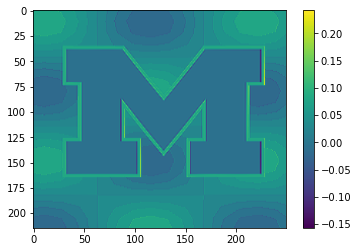
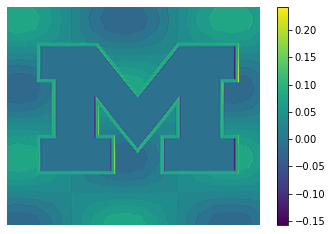
Computes stats of relative error
computes avg, max, min etc

Changed region(s): [[0.0, 0.0299, 0.994, 0.9872], [0.2711, 0.1795, 0.5723, 0.4188]]

diff --git a/compareImages.py b/compareImages.py
@@ -9,25 +9,11 @@ from PIL import Image
 import numpy as np
 from numpy import asarray
 from matplotlib import pyplot as plt
+import pandas as pd
 import itk
 
 fixed_image = itk.imread('transformingTestImage/newTestImage.png', itk.F)
 result_image = itk.imread('output/result_image_11_7.nii', itk.F)
-# transformedImage = Image.open('output/finalMichLogoUsingBSpline.png')
-# ogImage = Image.open('output/newTransformedImage.png')
-
-# #crop images
-# width, height = ogImage.size
-# left = (width/9)
-# right = width - (width/9)
-# top = 0
-# bottom = height
-
-# ogImage1 = ogImage.crop((left, top, right, bottom))
-# transformedImage1 = transformedImage.crop((left, top, right, bottom))
-
-# ogArray = np.array(ogImage1)
-# transformedArray = np.array(transformedImage1)
 
 ogArray = itk.GetArrayFromImage(fixed_image)
 transformedArray = itk.GetArrayFromImage(result_image)
@@ -40,18 +26,32 @@ ogArray = (ogArray-minValOG)/(maxValOG-minValOG)
 maxVal_Transformed = np.max(transformedArray)
 minVal_Transformed = np.min(transformedArray)
 transformedArray = (transformedArray-minVal_Transformed)/(maxVal_Transformed-minVal_Transformed)  
+#####
 
-newArray_orig = ogArray[:,40:290]
-newArray_transform = transformedArray[:,40:290]
+#crop the two arrays to just the M logo
+newArray_orig = ogArray[10:210,40:290]
+newArray_transform = transformedArray[10:210,40:290]
+
+rel_error = np.zeros(newArray_transform.shape)
+rel_error[newArray_orig != 0] = (newArray_transform[newArray_orig != 0] - newArray_orig[newArray_orig != 0] )/newArray_orig[newArray_orig != 0]
 
 outArray = np.subtract(newArray_transform, newArray_orig)
-print(outArray)
+
+avg = np.mean(rel_error)
+maxVal = np.max(np.abs(outArray))
+minVal = np.min(np.abs(outArray))
+std = np.std(rel_error)
+
+print("avg: ", avg)
+print("standard deviation", std)
+print("max: ", maxVal)
+print("min: ", minVal)
+
 im = plt.imshow(outArray)
 plt.colorbar(im)
+plt.axis('off')
 
-file = open('output/test.txt', 'w')
-file.write(" ".join(str(x) for x in outArray))
-file.close()
+
 
 
 
